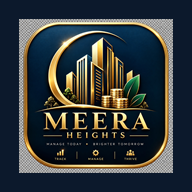
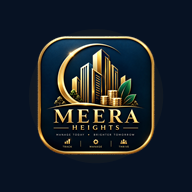
fix(branding): Eliminate white and grey checkerboard boxes, render seamless luxury midnight navy background, and fit badge within Android circular safe zone

diff --git a/index.html b/index.html
@@ -6,15 +6,15 @@
     <title>Meera Heights - Building Expenditure & Rent Management</title>
     
     <!-- Meta tags for PWA & Mobile Web App (iOS, Android, macOS, Windows) -->
-    <meta name="theme-color" content="#0c192c">
+    <meta name="theme-color" content="#071223">
     <meta name="mobile-web-app-capable" content="yes">
     <meta name="apple-mobile-web-app-capable" content="yes">
     <meta name="apple-mobile-web-app-title" content="Meera Heights">
     <meta name="apple-mobile-web-app-status-bar-style" content="black-translucent">
-    <link rel="icon" type="image/png" sizes="192x192" href="./icon-192.png?v=4.5.0">
-    <link rel="icon" type="image/png" sizes="512x512" href="./icon-512.png?v=4.5.0">
-    <link rel="apple-touch-icon" sizes="180x180" href="./apple-touch-icon.png?v=4.5.0">
-    <link rel="manifest" href="./manifest.json?v=4.5.0">
+    <link rel="icon" type="image/png" sizes="192x192" href="./icon-192.png?v=4.6.0">
+    <link rel="icon" type="image/png" sizes="512x512" href="./icon-512.png?v=4.6.0">
+    <link rel="apple-touch-icon" sizes="180x180" href="./apple-touch-icon.png?v=4.6.0">
+    <link rel="manifest" href="./manifest.json?v=4.6.0">
 
     <!-- Tailwind CSS CDN -->
     <script src="https://cdn.tailwindcss.com"></script>

diff --git a/service-worker.js b/service-worker.js
@@ -1,5 +1,5 @@
 // service-worker.js - Caching for offline capability
-const CACHE_NAME = 'meera-heights-cache-v8';
+const CACHE_NAME = 'meera-heights-cache-v9';
 const ASSETS_TO_CACHE = [
   './',
   './index.html',
